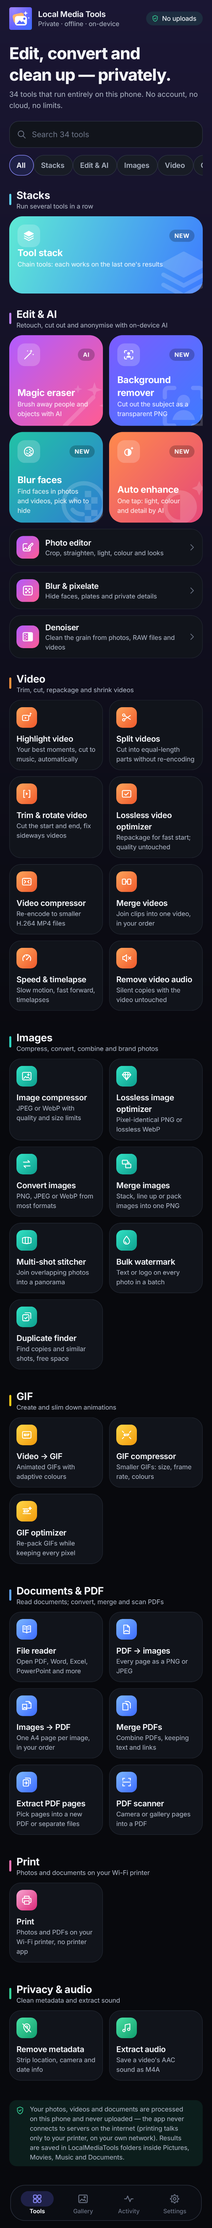
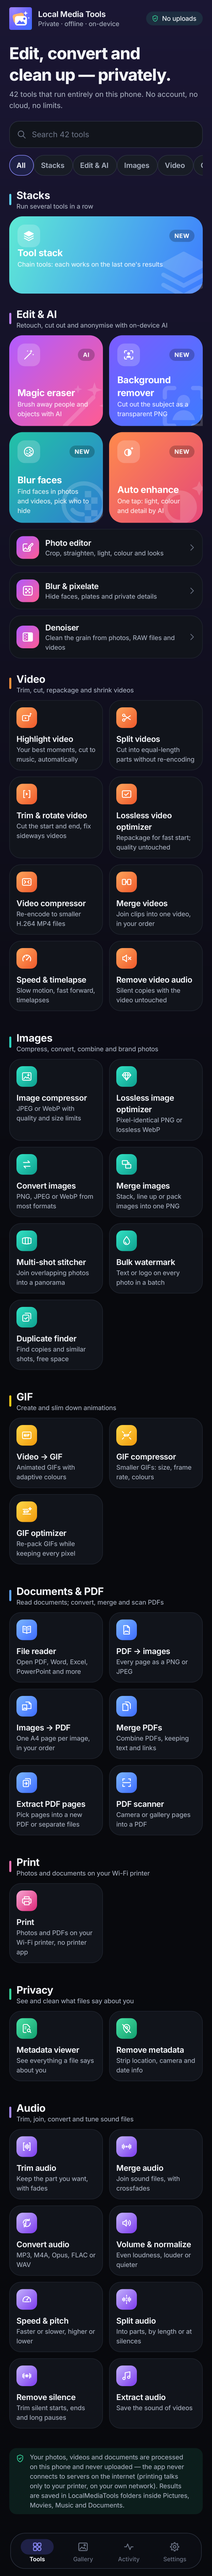
Release 1.13.0: audio tools; screenshots, tenths of a second for short lengths, visible removed parts
Claude-Session: https://claude.ai/code/session_01QWYGSgXqX2miYZz9W37Det

Changed region(s): [[0.0307, 0.0, 0.9838, 1.0]]

diff --git a/app/src/main/kotlin/com/localmediatools/ui/tools/AudioScreens.kt b/app/src/main/kotlin/com/localmediatools/ui/tools/AudioScreens.kt
@@ -107,7 +107,7 @@ class WaveformView(ctx: Context, private val selectable: Boolean, private val on
     var playhead = -1.0; set(v) { field = v; invalidate() }
     private var active = 0
     private val barPaint = Paint(Paint.ANTI_ALIAS_FLAG)
-    private val shade = Paint().apply { color = Palette.withAlpha(Color.BLACK, 140) }
+    private val shade = Paint().apply { color = Palette.withAlpha(Palette.WARNING, 70) }
     private val handle = Paint(Paint.ANTI_ALIAS_FLAG).apply { color = Color.WHITE }
     private val head = Paint(Paint.ANTI_ALIAS_FLAG).apply { color = Palette.WARNING; strokeWidth = ctx.dp(2).toFloat() }
     private val r = RectF()
@@ -329,7 +329,7 @@ class TrimAudioScreen(a: MainActivity) : ToolScreen(a, ToolId.TRIM_AUDIO) {
         if (!::times.isInitialized) return
         val s = (wave.start * durationUs).toLong(); val e = (wave.end * durationUs).toLong()
         val kept = if (AudioPrefs.trimRemove) durationUs - (e - s) else e - s
-        times.text = if (durationUs <= 0) "" else tr("Start {0} · End {1} · keeps {2}", fmtTime(s), fmtTime(e), Format.duration(kept.coerceAtLeast(0) / 1000))
+        times.text = if (durationUs <= 0) "" else tr("Start {0} · End {1} · keeps {2}", fmtTime(s), fmtTime(e), com.localmediatools.tools.AudioJobs.len(kept.coerceAtLeast(0), 1_000_000))
         wave.removed = if (AudioPrefs.trimRemove) listOf(wave.start to wave.end) else listOf(0.0 to wave.start, wave.end to 1.0)
         if (fields && durationUs > 0) { startField.edit.setText(fmtTime(s)); endField.edit.setText(fmtTime(e)) }
         refreshValidation()
@@ -638,7 +638,7 @@ class RemoveSilenceScreen(a: MainActivity) : ToolScreen(a, ToolId.REMOVE_SILENCE
         wave.removed = removed
         val kept = keep.sumOf(Span::length)
         info.text = if (a.frames - kept < a.rate / 10) tr("No silence to remove at this setting.") else tr("Removes {0}: {1} becomes {2}",
-            Format.duration((a.frames - kept) * 1000 / a.rate), Format.duration(a.frames * 1000 / a.rate), Format.duration(kept * 1000 / a.rate))
+            com.localmediatools.tools.AudioJobs.len(a.frames - kept, a.rate), com.localmediatools.tools.AudioJobs.len(a.frames, a.rate), com.localmediatools.tools.AudioJobs.len(kept, a.rate))
         refreshValidation()
     }
 

diff --git a/app/src/main/kotlin/com/localmediatools/tools/AudioJobs.kt b/app/src/main/kotlin/com/localmediatools/tools/AudioJobs.kt
@@ -42,7 +42,11 @@ internal object AudioJobs {
 
     fun db(v: Double) = String.format(Locale.ROOT, "%+.1f dB", v)
     fun lufs(v: Double) = if (v.isInfinite()) "−∞ LUFS" else String.format(Locale.ROOT, "%.1f LUFS", v)
-    fun len(frames: Long, rate: Int) = Format.duration(frames * 1000 / rate.coerceAtLeast(1))
+    /** A length: "7.7 s" under a minute (short cuts show), else "3:12". */
+    fun len(frames: Long, rate: Int): String {
+        val sec = frames.toDouble() / rate.coerceAtLeast(1)
+        return if (sec < 59.95) Format.seconds(Math.round(sec * 10) / 10.0) else Format.duration((sec * 1000).toLong())
+    }
 
     /** Streams [item]'s sound (from [startUs] to [endUs]) at [rate] and [ch] into [emit], reporting progress for item [index]. */
     fun pump(ctx: JobContext, item: MediaItem, info: AudioInfo, rate: Int, ch: Int, index: Int, from: Double, to: Double,

diff --git a/app/src/roboTest/kotlin/com/localmediatools/robo/ScreenshotTest.kt b/app/src/roboTest/kotlin/com/localmediatools/robo/ScreenshotTest.kt
@@ -278,6 +278,7 @@ class ScreenshotTest {
             @Suppress("DEPRECATION") a.onBackPressed(); idle()
         }
         Selection.of(ToolId.REMOVE_SILENCE).add(listOf(sound("speech.wav")))
+        com.localmediatools.ui.tools.AudioPrefs.silKeepMs = 200
         open(a, ToolId.REMOVE_SILENCE, dir, "34_remove_silence") { texts(a).any { it.startsWith("Removes ") && " becomes " in it } }
         Selection.of(ToolId.AUDIO_VOLUME).add(listOf(sound("speech.wav"), sound("music.wav")))
         open(a, ToolId.AUDIO_VOLUME, dir, "35_volume") { true }
